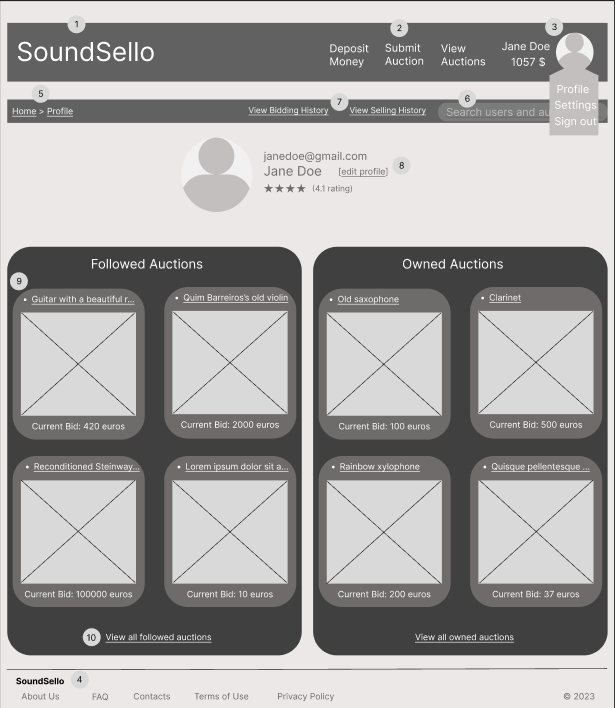
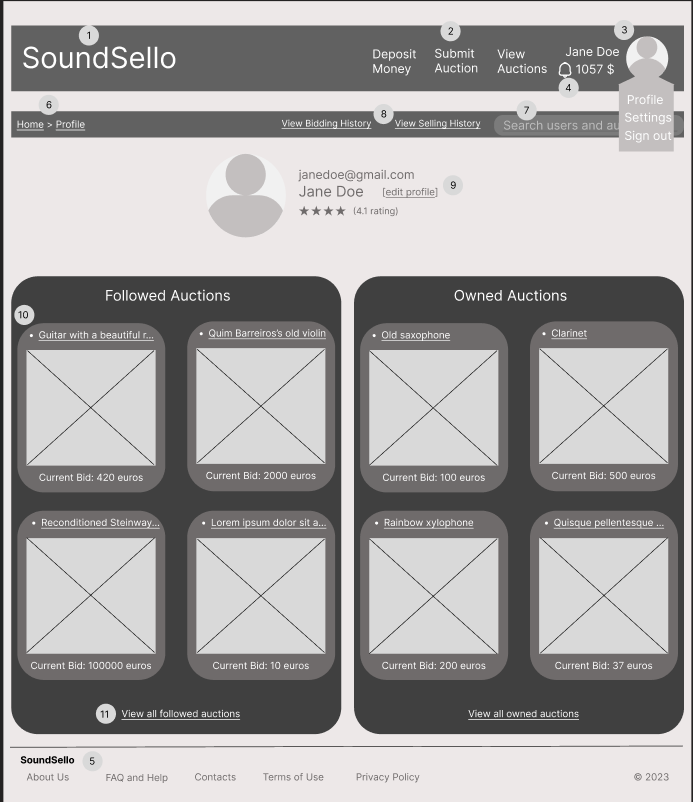
Final Changes

diff --git a/wiki/er.md b/wiki/er.md
@@ -35,7 +35,7 @@ The online auction will have an adaptive design, allowing users to be on the sys
 * **Full text search auctions**
 * Search filters
 * **Log in**
-* **Register fccount**
+* **Register Account**
 * Recover password
 * **View active auctions**
 * **View user profiles**
@@ -92,8 +92,9 @@ The online auction will have an adaptive design, allowing users to be on the sys
 
 ### **Product Information:**
 * About Us
-* Main Features
 * Contacts
+* Terms of Use
+* Privacy Policy
 
 ## A2: Actors and User stories
 
@@ -929,13 +930,14 @@ Figure 4: User profile page
 1. Link to the home page.
 2. Links to a page to deposit money into the user account (left), submit an auction into the platform (middle) and view all auctions available (right).
 3. Link to the user profile.
-4. Footer that contains all the links to "About Us", FAQ, Contacts, Terms of Use and Privacy Policy
-5. Breadcrumbs to help the user navigate.
-6. Search bar to help the user find auctions and other users.
-7. Links to a page with the user's complete bidding history (left) and complete seller history (right).
-8. Link to edit profile page, where you can change name and profile picture (only visible if it's the user's own profile).
-9. Each auction card has a link to the auction in question.
-10. View all of your followed auctions.
+4. Notifications button
+5. Footer that contains all the links to "About Us", FAQ, Contacts, Terms of Use and Privacy Policy
+6. Breadcrumbs to help the user navigate.
+7. Search bar to help the user find auctions and other users.
+8. Links to a page with the user's complete bidding history (left) and complete seller history (right).
+9. Link to edit profile page, where you can change name and profile picture (only visible if it's the user's own profile).
+10. Each auction card has a link to the auction in question.
+11. View all of your followed auctions.
 
 #### UI10: View Auction
 
@@ -946,14 +948,12 @@ Figure 5: Auction page
 1. Link to the home page.
 2. Links to a page to deposit money into the user account (left), submit an auction into the platform (middle) and view all auctions available (right).
 3. Link to the user profile.
-4. Footer that contains all the links to "About Us", FAQ, Contacts, Terms of Use and Privacy Policy
-5. Breadcrumbs to help the user navigate.
-6. Search bar to help the user find auctions and other users.
-7. Image of the auctioned item.
-8. Section displaying all user bids.
-9. Details about the specific item.
-10. Input area to place bid.
-11. Countdown timer displaying remaining auction time to users.
+4. Notifications button
+5. Footer that contains all the links to "About Us", FAQ, Contacts, Terms of Use and Privacy Policy
+6. Breadcrumbs to help the user navigate.
+7. Search bar to help the user find auctions and other users.
+8. Input area to place bid.
+
 
 #### UI09: Active Auctions Page
 
@@ -964,11 +964,12 @@ Figure 6: Active auctions page
 1. Link to the home page.
 2. Links to a page to deposit money into the user account (left), submit an auction into the platform (middle) and view all active auctions (right).
 3. Link to the user profile.
-4. Footer that contains all the links to "About Us", FAQ, Contacts, Terms of Use and Privacy Policy
-5. Breadcrumbs to help the user navigate.
-6. Search bar to help the user find auctions and other users.
-7. Button for using filters and sorting to assist users in searching auctions.
-8. Each auction card has a link to the auction in question.
+4. Notifications button
+5. Footer that contains all the links to "About Us", FAQ, Contacts, Terms of Use and Privacy Policy
+6. Breadcrumbs to help the user navigate.
+7. Search bar to help the user find auctions and other users.
+8. Button for using filters and sorting to assist users in searching auctions.
+9. Each auction card has a link to the auction in question.
 
 ---
 
